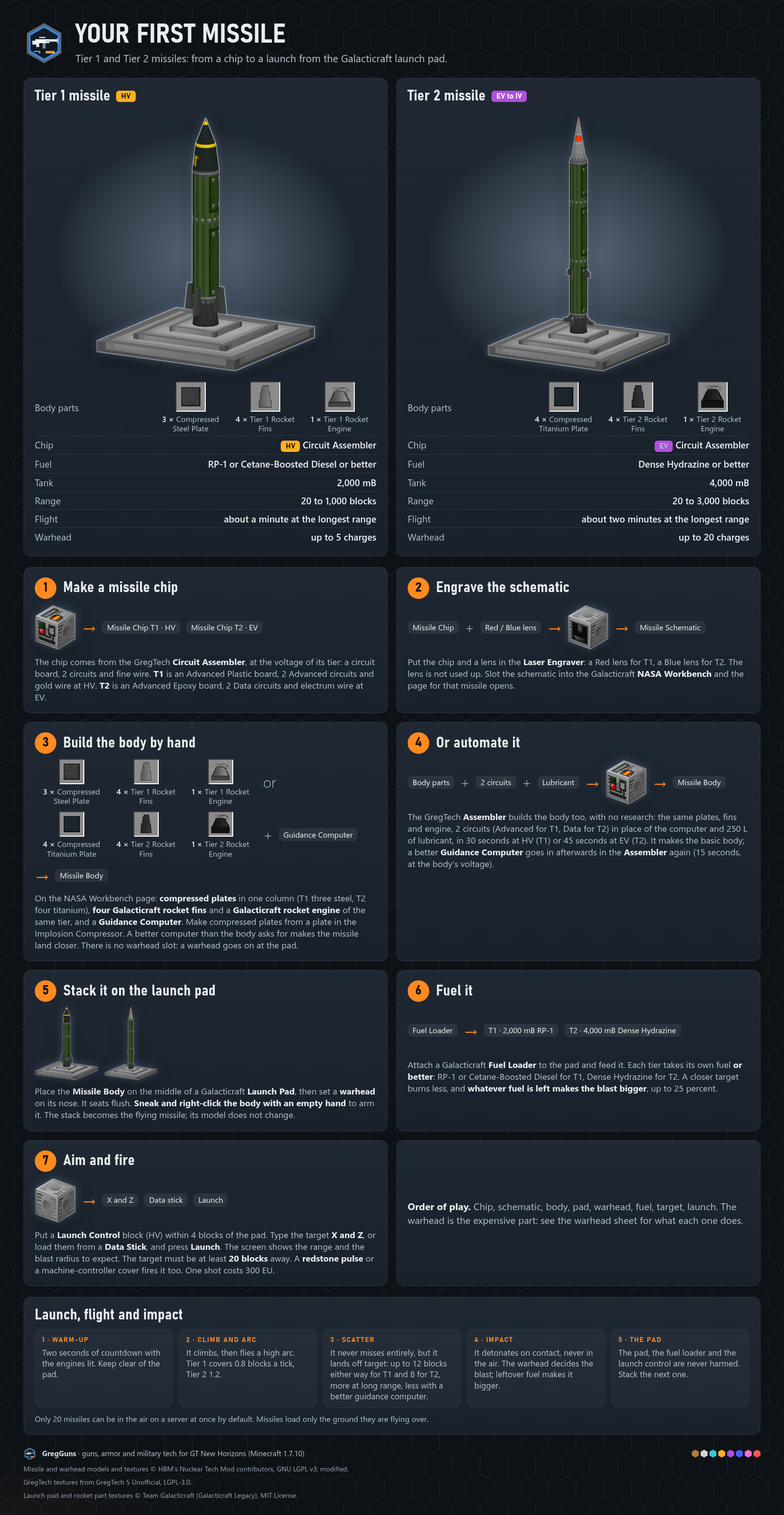
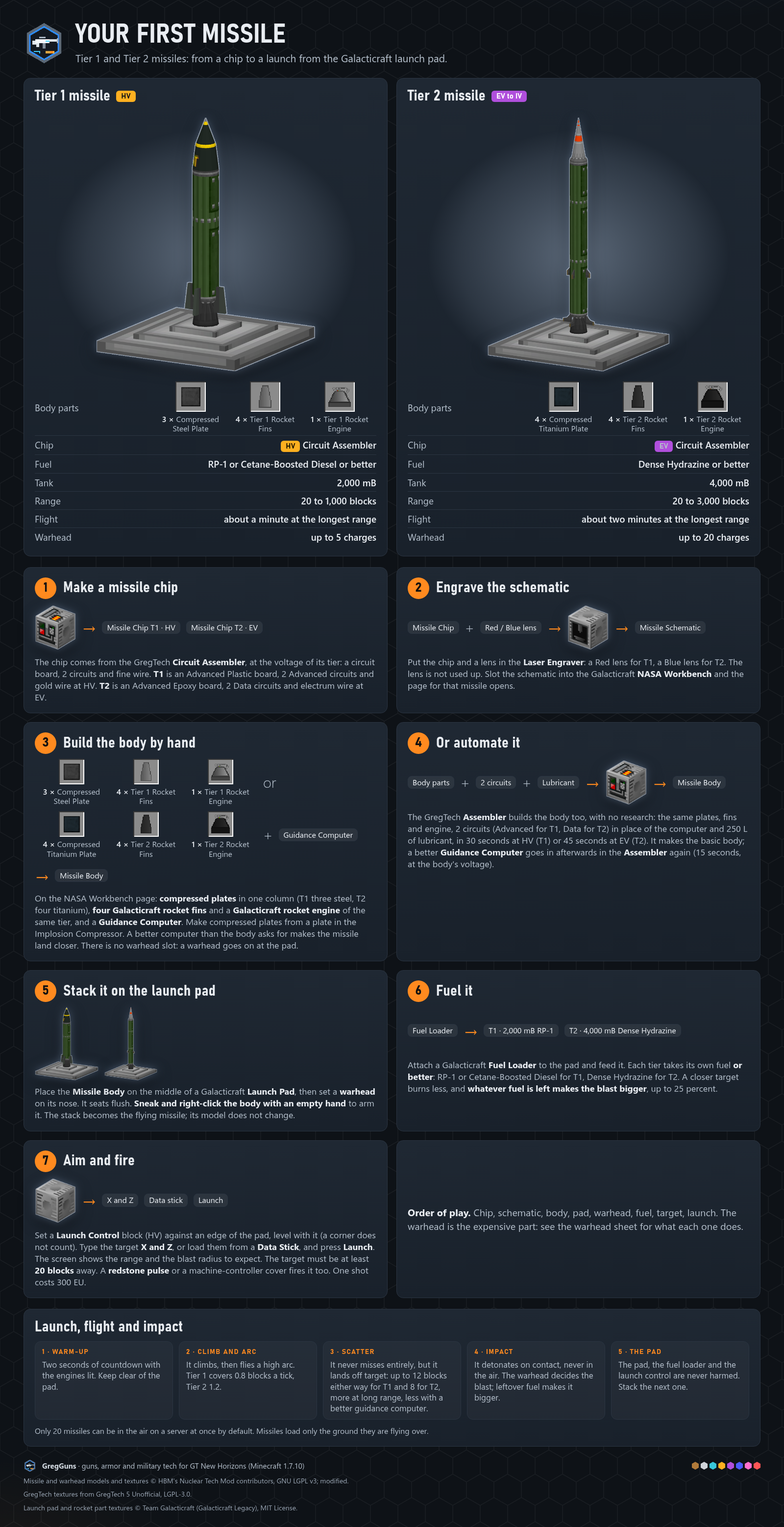
Launch Control pairing: spec, D285, quests, changelog, first-missile guide

diff --git a/tools/asset-gen/infographics/pages_icbm_silo.py b/tools/asset-gen/infographics/pages_icbm_silo.py
@@ -236,7 +236,7 @@ def silo() -> str:
 <div class="card"><h2 style="margin-bottom:10px">Loading and launching</h2><div style="display:flex;flex-direction:column;gap:14px">
 <div class="step"><span class="num">1</span><div class="t"><b>Feed it.</b> Put a missile body and a warhead into the Input Bus, by hand or by conveyor. The silo seats the warhead on the nose and stands the missile on the pad.</div></div>
 <div class="step"><span class="num">2</span><div class="t"><b>Fuel it.</b> Pipe the right fuel into the Input Hatch. A Tier 3 missile takes 8,000 mB of Purple or Green fuel. Power the Energy Hatch.</div></div>
-<div class="step"><span class="num">3</span><div class="t"><b>Link it.</b> Put a Launch Control within 6 blocks sideways and 4 up or down of the silo controller. It finds the silo the way it finds a pad.</div></div>
+<div class="step"><span class="num">3</span><div class="t"><b>Link it.</b> Build a Launch Control into the silo in place of any wall, glass or floor-ring block, one per silo. It fires that silo and no other, and its screen names it.</div></div>
 <div class="step"><span class="num">4</span><div class="t"><b>Launch.</b> Pick the target on the Launch Control and fire. You never touch the missile.</div></div></div></div></div>
 <div class="card" style="margin-top:18px"><h2 style="margin-bottom:6px">Building a Tier 3 body</h2>
 <div class="muted" style="font-size:18px;margin-bottom:12px">A Tier 3 body is built like the smaller ones, by hand on the NASA Workbench or on a LuV Assembly Line. It needs the silo: a pad refuses it. It carries every warhead casing, from Tier 1 up to antimatter and red matter.</div>

diff --git a/tools/asset-gen/infographics/pages_icbm_missile.py b/tools/asset-gen/infographics/pages_icbm_missile.py
@@ -143,7 +143,7 @@ def first_missile() -> str:
                "A closer target burns less, and <b>whatever fuel is left makes the blast bigger</b>, up to 25 percent.")
     s6 = _step(7, "Aim and fire",
                f"{lc}{arrow}<span class='pill'>X and Z</span><span class='pill'>Data stick</span><span class='pill'>Launch</span>",
-               f"Put a <b>Launch Control</b> block (HV) within 4 blocks of the pad. Type the target <b>X and Z</b>, or load them from a <b>Data Stick</b>, and press <b>Launch</b>. The screen shows the range and the blast radius to expect. "
+               f"Set a <b>Launch Control</b> block (HV) against an edge of the pad, level with it (a corner does not count). Type the target <b>X and Z</b>, or load them from a <b>Data Stick</b>, and press <b>Launch</b>. The screen shows the range and the blast radius to expect. "
                f"The target must be at least <b>{MIN_RANGE} blocks</b> away. A <b>redstone pulse</b> or a machine-controller cover fires it too. One shot costs 300 EU.")
     flight = f"""<div class="card" style="margin-top:22px"><h2>Launch, flight and impact</h2>
 <div class="tl"><div><div class="k">1 &middot; Warm-up</div><div class="v">Two seconds of countdown with the engines lit. Keep clear of the pad.</div></div>

diff --git a/docs/gregguns-icbm-spec/DECISIONS.md b/docs/gregguns-icbm-spec/DECISIONS.md
@@ -86,7 +86,7 @@ The owner decided D1–D28 on 2026-10-20 and D29–D42, D47 and D50 on 2026-10-2
 | D72 | Mating and fueling (silo coder) | Body and warhead come from an Input Bus, one of each per cycle of 20 s, drawing the body tier's voltage; the missile appears when the cycle ends, and a pending mating is saved. Fuel is pumped 2,000 mB per 40-tick cycle. A body stacked by hand in the shaft is armed as on a pad, and the silo waits for it. A launch is one entry point per site (`LaunchSite.launch`) |
 | D73 | The silo bonus (owner, 2026-10-26) | Scatter x0.5 (`icbm.siloScatterFactor`, 0.1 to 2) and range x1.25 (`icbm.siloRangeFactor`, 0.5 to 5), for every tier launched from a silo, passed to `EntityMissile.launch` as a site modifier and kept for the flight. The 10% scatter floor still applies; the pad keeps the plain numbers |
 | D74 | T3 missile numbers and parts (silo coder; amends D60) | Fuel 8,000 mB (Purple or Green), range 20 to 8,000, speed 1.6, scatter 6, health 60, 6 blocks tall, entity id 122, warhead T3 or lighter. Build: LuV chip and schematic (yellow lens), Assembly Line at LuV behind a research scan, 4 compressed titanium plates, 4 Heavy Duty Rocket Fins Tier 3, 1 Heavy Duty Rocket Engine Tier 3 (NewHorizonsCoreMod, `dreamcraft:HeavyDutyRocket{Engine,Fins}Tier3`), 2 Master circuits. **No guidance computer above LuV exists yet, so T3 takes Mk III and carries no guidance steps** (`guidanceOf` is clamped at 0); a Mk IV and V arrive with the UV missiles in I5 if wanted. Cost is an estimate until the full-pack review (D63) |
-| D75 | Silo reach and order (silo coder) | The Launch Control finds a formed silo within 6 blocks horizontally and 4 vertically of the silo controller (`SiloSearch`), and tries it before a pad, because the silo floor is itself a pad. The Launch Control's range line shows the linked site's range |
+| D75 | Silo reach and order (silo coder) | The Launch Control finds a formed silo within 6 blocks horizontally and 4 vertically of the silo controller (`SiloSearch`), and tries it before a pad, because the silo floor is itself a pad. The Launch Control's range line shows the linked site's range. Replaced by D285 (the Launch Control is part of its silo; a free one needs a touching pad) |
 | D76-D79 | (not used) | These numbers were never issued; the table runs D75, D80. Do not cite them |
 | D80 | T3 warheads (nuclear coder, I3) | T3 casing: LuV to ZPM, 1x1x2, fill cap 64, tungstensteel casing (8 plates). Three T3 blast types ship in I3: **exothermic** (r28, 8,000, everything burns 5 s), **endothermic** (r28, 8,000, slowness 10 s) and **nuclear** (ZPM, r64 at full fill, annihilation with bosses). Ender, anti-gravitational and EMP (D10's other T3 types) **move to I4/I5**: they need teleport, flying-block and EMP machinery that I3 does not build. One new part, **Fuze Assembly Mk III** (LuV). Recipes are Assembler recipes at LuV (exothermic, endothermic) and ZPM (nuclear); T3 cost band 55 to 150 plate equivalents (about two to three T3 launches, the warhead being the expensive part, D34). T3 recipes reuse programmed circuits 1 to 3: all 24 are taken below T3, and the tungstensteel casing means no T1/T2 recipe can clash (`WarheadRecipeSpecTest` checks T3 circuits among themselves) |
 | D81 | T3 collision box (I3) | The T3 casing's box is 0.9 wide (0.96 with the margin) and fits the nuclear model (0.8). The conventional T3 model reuses the T1 shape at full width (1.0), so it overhangs the box by 0.02 a side. Accepted; a slimmer licensed model can replace it later |
@@ -543,3 +543,4 @@ None right now. New questions are added here as the GregGuns-side sheets raise t
 | D282 | The warhead chain: an inert warhead, a payload, then Plastic Explosive charges (orchestrator, 2026-10-30; amends D54 and D57, settles D23's filling) | Owner bugs from the 0.4.0-alpha playtest: "I don't see a way to craft an empty warhead and fill it with charges, it just comes out of the assembler recipe full", "players should have to craft a base inert warhead and then customize it further by filling it with charges and / or payload choices", and "the warhead has both itnt and plastic explosive in the recipe that is redundant ... we should just be using more plastic explosive charges". This returns to the owner's Q11 answer (2026-10-20), which chose ICBM 2's quantity knob ("Warhead casing T3: cap 64 units, fill with 1..64x ... charge"; "record the NBT into the one item and recover it at explosion time") over fixed warhead items. D54's "NBT cannot flow through a GT recipe" turned that into full-only recipes. **(1) Inert warhead:** new items `gregguns:inert_warhead_t1` to `_t5`, one per casing, made in the Assembler at the casing tier (HV, EV, LuV, UV, UHV; circuit 2) from the casing plates and the casing's Fuze Assembly. It is a plain item, not a block, so it is inert by construction: it cannot be placed, cannot sit on a missile or stand on a pad, and nothing sets it off. The silo's Input Bus ignores it and says why (`gregguns_silo_inert_warhead`). **(2) Payload:** an Assembler recipe per blast at its tier, on the blast's circuit, fits a payload to a bare inert warhead (NBT `payload`). It is not NBT-sensitive, because the Bio Lab dish carries NBT, so refitting replaces a payload. A payload holds only the effect materials, with **no explosive**. Condensed has no payload. **(3) Charges:** **Plastic Explosive is the only charge, one charge per unit of fill.** D23's caps are kept (5, 20, 64, 128, 128). Charges are loaded in a crafting grid (`WarheadChargeRecipe`): one inert or live warhead plus 1 to 8 Plastic Explosive. Top-ups work; a bare T1 casing becomes Condensed; a bare T2 to T5 casing, or a load past the cap, makes no recipe. Or they are loaded in the Assembler: an NBT-sensitive fill recipe takes a full casing of charges. Both make the existing live `warhead_t1` to `warhead_t5`, so worlds and quests keep working, and every launch and detonation path is unchanged. **(4) No recipe takes both Industrial TNT and Plastic Explosive.** The payloads carry neither. The launcher warheads Demolition and Cluster take 4 Plastic Explosive and EMP takes 2, instead of Industrial TNT plus Plastic Explosive. The fill-1 condensed starter recipe is gone (the grid makes it). **(5) Costs (D34)** count the inert warhead, the payload and a full casing of charges. The bands are T1 14 to 26, T2 38 to 52, T3 90 to 180, T4 and T5 100 to 400. The inert warhead draws the live model dimmed, with a generated fallback icon. Details: [warheads-and-fill](02-explosives/warheads-and-fill.md#the-warhead-chain-d282) |
 | D283 | De-arming: the warhead chain runs backwards (orchestrator, 2026-10-30; extends D282 and D44, adds a use to the D120 defuser) | Owner, in game during the 0.4.0-alpha playtest: "make sure you are planning for a de-arming sequence for filled warheads so that players can repurpose or get their materials back. GTNH default is recycler recipes but we can be more modular than that". Each build step has its inverse. **(1) Unload charges:** a custom shapeless crafting recipe (`WarheadUnloadRecipe`): one live warhead and the **Defuse Kit**, nothing else, gives the same warhead with `min(8, fill)` fewer charges, mirroring the 1 to 8 grid load; the last charge out gives the inert warhead with the payload it was built with (bare for Condensed). The Plastic Explosive comes back **whole**, through FML's `ItemCraftedEvent` on the server (the akimbo precedent, GUN-26: FML fires it before the grid gives up its ingredients), into the inventory or at the player's feet. The kit becomes a container item that stays in the grid and spends one of its 32 uses per craft (creative too); it is no other recipe's ingredient. For bulk, GT's **Cutting Machine** empties a **full** warhead (NBT-exact) into its inert warhead and the full casing of charges (128 as two stacks). **(2) Remove the payload:** the Cutting Machine, NBT-exact, gives the bare inert warhead and every item of the payload recipe at its count; the payload's fluid (gas, fuel, biomass) is spent, so canisters come back as they went in. **(3) Scrap the casing:** the Cutting Machine gives a bare inert warhead's plates and Fuze Assembly back, lossless. GT recycling data for the live and inert warheads now holds the fuze's metal beside the casing plates, so the Macerator and Arc Furnace (the GT default) give the metal back and lose charges and payload. **Machine choice:** GT 5.09.54.205 has no Disassembler, the Assembler has one output, and the cutter's four item outputs fit the largest step; every de-arm runs at the build step's voltage (`machineVoltageIndex`, casing tier for scrap), so it never needs less tech than the build. **No dupe:** the grid needs both `explosive` and `fill` in the tag and an explosive of the casing's tier (a tag-less stack, which reads as full, gives nothing), clamps the fill as the blast does, and the cutter inputs are NBT-sensitive. A round trip through any grid loads returns exactly what went in (`WarheadDearmingTest`, `icbm.warhead.dearm.round_trip`). The boot self-check skips cutter recipes that take a warhead: the D1 tier map judges what a recipe makes, and salvage sits below the warhead's tier by design. Quest `gg.icbm.dearm` (after `gg.icbm.warhead`) asks for an inert T1 warhead *crafted* in the grid, which only a de-arm makes; crafting tasks now ignore NBT unless `matchNBT` is set. Details: [warheads-and-fill](02-explosives/warheads-and-fill.md#de-arming-d283) |
 | D284 | Abandoned complexes: holdout guards, picked clean (amends D36; owner, 2026-10-30) | Owner, after exploring an abandoned complex: "give the abandoned ones like one or two spawners and make the GTNH machines and loot spawn way less frequently in abandoned ones. I have already found several free machines." **Spawners:** an abandoned complex places exactly one or two (a hash of its seed) `SILO_GUARD` vanilla spawners (Army Soldier, Commando; never elite) on hashed `post` marks, which are the guard post rooms and the corridor junctions, never in a collapsed room. All other spawner marks stay silent at this level. **Loot:** each chest and wall frame mark is kept with the level's `chestKeepChance` (abandoned 0.30, partly and operational 1.0). **Machines:** a new `absentMachineChance` (abandoned 0.20, others 0) leaves the slot empty before the husk roll, and abandoned `deadMachineChance` rises from 0.35 to 0.90, so 8% of abandoned machine slots hold a working machine (0.8 x 0.1), against 55% partly and 100% operational. Chest richness stays 0 (the poorest). Partly abandoned and operational are unchanged. Read back by `icbm.complex.levels` and `ComplexContentsTest` |
+| D285 | The Launch Control is a part of its silo; a free one pairs only with a pad it touches (owner, 2026-10-30; replaces D75's search) | Owner bug from the 0.4.0-alpha playtest: "launch control reports no missile found when it is sitting close to two silos (in between two silos). I am guessing that LCs have an election process and marry to a single silo? If so can you just make it one of the blocks in the multi?" **Cause:** `LaunchSites.find` re-picked a site every snapshot: the nearest formed silo controller within 6 / 4 blocks (D75), whatever stood in its shaft, ties going to the west then north offset, and only then the nearest pad within 4 / 2; between two silos it took the nearer (or western) one even when it was empty. **Silos:** the Launch Control is a hatch-like element of the Missile Silo (`SiloLaunchControl`), accepted in every hatch position (walls, glass rings, floor ring), optional, at most one (a second fails its position). The structure check binds it (`MTELaunchControl.bindSilo`, saved), so the silo knows its Launch Control and the Launch Control its silo: it fires that silo only, shows `silo_unformed` while the silo is not formed, and is released when the silo forms without it. A free block nudges nearby formed silos without a Launch Control to recheck once after it loads, since GT rechecks only on machine-block updates. **Pads (owner: "make it have to have a pad next to it to pair to a bare pad, that's how the galacticraft launch controller is"):** a free Launch Control pairs only with a Galacticraft rocket pad whose edge it touches at the pad's level, Galacticraft's `TileEntityLandingPad.getConnectedTiles` rule (`PadAdjacency`: the 12 edge cells, no corners, no other level); no radius search. A formed silo's floor is never a bare pad. Several touching pads: a launch under way, then ready, armed, anything, empty; ties in a fixed side order, north, east, south, west (`SiteChoice`). `no_pad` reads "No pad adjacent". **Screen:** a site line names the binding: the silo's sign name (the first line of a wall sign on its face one above the controller, where the complex hangs `Silo N`), else `Silo at x, z`, `Pad at x, z`, or none; the screen's rows go from 9 to 8 px to fit it. **Worldgen and dev builds:** every generated silo carries its own Launch Control (cell `SILO_LAUNCH_CONTROL`) in the front face's window, top row, outer column on a viewer's right (`SiloShape.LAUNCH_CONTROL_COLUMN` 1, `LAUNCH_CONTROL_RISE` 1); it is never the missing part. `DevStructureBuilder.buildSilo` places one in the same cell. The Launch Control room's machine stays as furniture (no pad, no silo). Tested by `LaunchControlPairingTest`, `ComplexRasterTest`, `icbm.control.pad_and_gate`, `icbm.control.pad_choice`, `icbm.silo.own_control`, `icbm.silo.unformed_pad` |

diff --git a/docs/gregguns-icbm-spec/04-launch-control/launch-control-block.md b/docs/gregguns-icbm-spec/04-launch-control/launch-control-block.md
@@ -10,7 +10,7 @@
 
 | ICBM behavior | GregGuns behavior | Why |
 |---|---|---|
-| Launcher screen block linked to launchers by a cable network | One block within reach of the pad; no network at T1-T2 | A Galacticraft pad is one 3x3 area; the silo (I3) brings its own feed |
+| Launcher screen block linked to launchers by a cable network | One block set against the pad's edge, or built into the silo's structure; no network | A Galacticraft pad is one 3x3 area and Galacticraft's own controller attaches by touch; the silo knows its own Launch Control (D285) |
 | Energy buffer fed by a battery slot (dead in ICBM, ICBM-04-15) | GT EU buffer; 300 EU per shot, paid only when the pad accepted the launch | ICBM-04-07 |
 | Default target (0, 0, 0) is a legal target (ICBM-04-06) | A target is unset until both coordinates are given | ICBM-04-06 |
 | Range is two per-axis squares with a hard-coded minimum (ICBM-04-05) | A circle on the horizontal distance from the pad's center; the minimum is the body tier's (20) | ICBM-04-05 |
@@ -26,9 +26,15 @@
 
 ## Finding the pad or the silo
 
-From I3 the block fires a `LaunchSite`: a formed Missile Silo within 6 blocks horizontally and 4 vertically of the silo's controller (tried first, because its shaft floor is a pad too), else the Galacticraft pad as before. The range line and the expected radius are those of the linked site (a silo adds its bonus, [missile-silo](../03-missiles/missile-silo.md)), and a silo whose Energy Hatch is below the missile's tier shows `silo_tier` and locks the button.
+The block fires a `LaunchSite` (D285). There is no search for silos and no election between sites.
 
-The block scans a box of plus or minus 4 horizontally and plus or minus 2 vertically for the **center block of a Galacticraft rocket pad** (`GCBlocks.landingPadFull` with metadata 0) and takes the nearest (`PadSearch`, unit tested). A buggy pad is not a rocket pad. `LaunchPads` is the only class that names a Galacticraft block, and it is reached only after the module gate. The pad's center is passed to the pad API.
+- **Part of a silo.** A Launch Control built into a Missile Silo's structure, in any hatch position (a wall, glass or floor-ring block; [missile-silo](../03-missiles/missile-silo.md)), is that silo's. The silo's structure check finds it (`SiloLaunchControl`, a hatch element) and binds it (`MTELaunchControl.bindSilo`, the controller's coordinates, saved): the silo knows its Launch Control and the Launch Control knows its silo. It fires that silo only. While the silo is not formed it shows `silo_unformed` and fires nothing; a silo that forms without it (or a controller that is gone) releases it, and it stands free. A silo takes at most one Launch Control: a second one fails its position, and the silo does not form. Once, 20 ticks after it loads or is placed, a free block asks every formed silo whose structure could hold it, and that has no Launch Control, to check its structure again, because GT only rechecks a structure when a machine block beside its parts changes.
+- **Free-standing, beside a pad.** A Launch Control that is part of no silo fires a Galacticraft rocket pad it **touches**: it stands against one of the 3x3 pad's four edges, level with the pad, the way Galacticraft's own launch controller attaches (`TileEntityLandingPad.getConnectedTiles`). That is the twelve cells two blocks from the pad's center along one axis and at most one along the other (`PadAdjacency`, unit tested). A corner contact, a gap or a different level does not attach. The pad is found by its **center block** (`GCBlocks.landingPadFull`, metadata 0); a buggy pad is not a rocket pad. A formed silo's shaft floor is never a bare pad. With no touching pad the status is `no_pad` ("No pad adjacent").
+- **Several touching pads.** The block takes the one with a launch under way (so Abort reaches it), then one with a ready missile (armed, full tank), then an armed one, then one with anything on it, then an empty one; among equals the first in the fixed side order (north, east, south, west, each from the low coordinate up) (`SiteChoice`, unit tested). The choice never flips between two equal pads.
+
+The range line and the expected radius are those of the bound site (a silo adds its bonus), and a silo whose Energy Hatch is below the missile's tier shows `silo_tier` and locks the button. `LaunchPads` is the only class that names a Galacticraft block, and it is reached only after the module gate.
+
+**Generated silos** carry their Launch Control in the front face, in the window's top row (one above the controller), in the outer column on the right of a player facing the controller (`SiloShape.LAUNCH_CONTROL_COLUMN`, `LAUNCH_CONTROL_RISE`; worldgen cell `SILO_LAUNCH_CONTROL`). The dev builder (`DevStructureBuilder.buildSilo`) puts it in the same place. The Launch Control room of the complex keeps its own Launch Control as furniture: it touches no pad and is part of no silo, so it shows "No pad adjacent".
 
 ## The pad API (coder 1's `PadMissiles`)
 
@@ -43,7 +49,7 @@ The block scans a box of plus or minus 4 horizontally and plus or minus 2 vertic
 
 ## The GUI (ModularUI2)
 
-A dark status screen (state, target, distance and range, expected blast radius, EU), the X and Z fields, **Use my position**, the data stick slot with **Load target** and **Save target**, **Launch** and **Abort** (D88). Every control is labeled with a tooltip. **Launch** is gray until the pre-check is READY, and its tooltip then names the first reason (no target, no pad, power, cooling down, no missile, not armed, not fueled, too close, out of range). Load and Save are gray without a stick and say so. **Abort** sits beside Launch: it is live while a countdown runs (the screen reads "Countdown: N s"), gray when none runs, and gray with "Ignition: no abort" once the engines have lit. Status numbers reach the client as read-only sync values; no client code reads the world.
+A dark status screen (state, the bound site, target, distance and range, expected blast radius, EU), the X and Z fields, **Use my position**, the data stick slot with **Load target** and **Save target**, **Launch** and **Abort** (D88). Every control is labeled with a tooltip. **Launch** is gray until the pre-check is READY, and its tooltip then names the first reason (no target, no pad, power, cooling down, no missile, not armed, not fueled, too close, out of range). Load and Save are gray without a stick and say so. **Abort** sits beside Launch: it is live while a countdown runs (the screen reads "Countdown: N s"), gray when none runs, and gray with "Ignition: no abort" once the engines have lit. The site line names what the block is bound to: `Silo 2 at 120, -30` (the silo's name is the first written line of a wall sign on its face one block above the controller, where the complex hangs `Silo N`), `Silo at 120, -30` without a sign, `Pad at 120, -30`, or `Bound to no silo or pad`; the coordinates are the launch point (the shaft's or the pad's center). Six 8 px rows fill the screen. Status numbers reach the client as read-only sync values; no client code reads the world.
 
 ## Triggers
 
@@ -65,10 +71,11 @@ A shot starts a 40-tick cooldown on the block.
 - **GGS-I2-13** A held signal fires once. A far or dead player's button press does nothing.
 - **GGS-I2-14** Every status has a lang key (ICBM-04-16, 04-17).
 - **GGS-I2-15** The block never touches the pad, the fuel loader or anything attached; only the pad API acts on the pad.
+- **GGS-ICBM-04-25** A Launch Control in a silo's structure fires that silo only, and names it; a free one fires only a pad it touches, level with it, and prefers a site with a ready missile over an empty one (D285).
 
 ## Tests
 
-`LaunchControlTest` (target, parse, gate order, trigger edge, pad search, stick codec, number format) and scenarios `icbm.control.registered`, `icbm.control.pad_and_gate`, `icbm.control.data_stick`, `icbm.control.redstone`. The full launch from the block is in the missile milestone's scenarios.
+`LaunchControlTest` (target, parse, gate order, trigger edge, stick codec, number format), `LaunchControlPairingTest` (pad adjacency, the site choice and its tie-break, the site line) and scenarios `icbm.control.registered`, `icbm.control.pad_and_gate` (only a touching pad, level with the block), `icbm.control.pad_choice` (between two pads the loaded one wins; ties keep the side order), `icbm.control.data_stick`, `icbm.control.redstone`, `icbm.silo.own_control` (two silos, each fired by its own Launch Control; a free one between them belongs to neither) and `icbm.silo.unformed_pad`. The full launch from the block is in the missile milestone's scenarios.
 
 ## Open questions
 

diff --git a/docs/gregguns-icbm-spec/03-missiles/missile-silo.md b/docs/gregguns-icbm-spec/03-missiles/missile-silo.md
@@ -26,6 +26,7 @@ One fixed piece, 5 wide, 5 deep and 12 layers tall, with the four corner columns
 - **Walls and floor ring (D116):** GT's concrete block `gregtech:gt.blockconcretes` (`GregTechAPI.sBlockConcretes`), metas 0 to 7 Dark and 8 to 15 Light, mixed freely. Accepted: stone (0, 8), bricks (3, 11), cracked bricks (4, 12), mossy bricks (5, 13), chiseled (6, 14), smooth (7, 15). Cobblestone and mossy cobblestone (1, 2, 9, 10) are refused: they are the rubble form the plain stone drops as. The hologram and auto-build place Light Concrete (meta 8). GT gives concrete no casing texture index, so a hatch in the silo still wears the Gantry Casing texture.
 - **Hatches (D117, amends D71):** the Input Bus, Input Hatch, Energy Hatch and Maintenance Hatch may replace any wall block (layers 5 to 11), any glass pane (layers 2 to 4) or any outer-ring cell of the floor. Never the rim (layer 12, Gantry Beam), and never the inner 3x3 pad floor, which a hatch would break. At least 84 of the 96 concrete positions must stay concrete.
 - **Controller:** the middle of the front wall, in the middle glass ring (layer 3).
+- **Launch Control (D285):** optional, at most one, in any hatch position (a wall, glass or floor-ring cell; `SiloLaunchControl`, a hatch element in every hatch adder). The structure check binds it, so the silo fires through its own Launch Control and no other; a second one fails its position. It keeps its own texture. Generated and dev-built silos put it in the front face's window, top row (layer 4), in the outer column on a viewer's right (`SiloShape.LAUNCH_CONTROL_COLUMN`, `LAUNCH_CONTROL_RISE`). The controller's tooltip lists it.
 - **Pad:** the nine blocks accept either the unformed Galacticraft pad blocks (`tile.landingPad`) or the formed pad (`tile.landingPadFull` at the center and `tile.dummyblock` meta 2 on the other eight), found by registry name through `GalacticraftPads` so no Galacticraft class loads. Without Galacticraft the module is off and the silo inert. The launch never removes or damages the pad (D32): a missile does not extend `EntityAutoRocket`.
 - **Counts:** 96 concrete positions (84 needed, the rest may be hatches), 35 glass panes plus the controller, 12 beams, 9 pad blocks.
 - **The shaft:** 3x3, open to the sky, left as "anything" so a body stacked by hand does not unform the silo. The missile climbs straight out; keep the opening above the rim free of blocks.
@@ -65,7 +66,7 @@ A missile launched from a silo gets scatter x0.5 (`icbm.siloScatterFactor`, on t
 
 ## The launch site API
 
-`com.gregguns.icbm.missile.LaunchSite` (`centerX/Z`, `status`, `maxRange`, `expectedRadius`, `hold`, `launch`). `PadMissiles.site(world, x, y, z)` wraps the unchanged static pad API; `MTEMissileSilo.site()` is the silo. The Launch Control reaches both through `LaunchSites.find`, the silo first (its floor is a pad too, but a silo launch must obey the silo), within 6 blocks horizontally and 4 vertically of the silo controller (`SiloSearch`).
+`com.gregguns.icbm.missile.LaunchSite` (`centerX/Z`, `status`, `maxRange`, `expectedRadius`, `hold`, `launch`). `PadMissiles.site(world, x, y, z)` wraps the unchanged static pad API; `MTEMissileSilo.site()` is the silo. The Launch Control reaches both through `LaunchSites.find`: its own silo when the silo's structure holds it, else a Galacticraft pad it touches (D285, [launch-control-block](../04-launch-control/launch-control-block.md)). A formed silo's floor is never fired as a bare pad. `MTEMissileSilo.signName()` reads the first written line of a wall sign on the face one block above the controller, for the Launch Control's site line.
 
 ## T3 missiles
 
@@ -91,7 +92,7 @@ Cost (estimates, D34): fins 150 and engine 700 plate equivalents each, about 1,3
 
 ## Tests
 
-`SiloDoorsTest`, `SiloShapeTest`, `SiloRulesTest`, `SiloSearchTest`, `MissileTierTest`, `ScatterTest`; scenarios above.
+`SiloDoorsTest`, `SiloShapeTest`, `SiloRulesTest`, `LaunchControlPairingTest`, `MissileTierTest`, `ScatterTest`; scenarios above and `icbm.silo.own_control`.
 
 ## Open questions
 

diff --git a/docs/gregguns-icbm-spec/08-worldgen/silo-layout.md b/docs/gregguns-icbm-spec/08-worldgen/silo-layout.md
@@ -149,7 +149,8 @@ The plan is pure geometry and deterministic. It never changes by activity level.
 - **Silo:** the `SiloShape` piece cell by cell, turned to face its gallery:
   - concrete `C`/`F`, clear glass `G`, Gantry Beam `B`, Galacticraft pad `P`, with the 3 x 3 bore open;
   - the controller and hatches (input bus and maintenance beside it, energy and input HV below) are real GT machines facing the gallery;
-  - exactly one part is missing: the controller (concrete in its place) or the Energy Hatch.
+  - exactly one part is missing: the controller (concrete in its place) or the Energy Hatch;
+  - its own Launch Control is a real GT machine in the window's top row, outer column on a viewer's right (cell `SILO_LAUNCH_CONTROL`, D285), facing the gallery; it is never the missing part, so the silo fires through it once the missing part is in.
 - **Shaft:** above the silo, a 5 x 5 concrete ring around the bore up to the ground height read in the shaft's window, with the open, half open or closed mouth variants. Natural cover over each mouth cell is cleared up to 32 blocks over the ground, so a mouth never sits under a canopy: plants, vines, snow layers, cactus, logs and leaves (`isWood` or `isLeaves`) and ice. Ice goes on being cleared above 32 while it lasts, so an ice spike is cut whole. Any other block stays (a chest, a fence, another mod's build), and so does every block with a tile entity (D239, D250).
 - **Owner:** every generated GT machine (silo controllers and hatches, radar controllers, room machines) carries the owner "[Silo Complex]" with a fixed UUID, so GT's power-fail tracker has an owner when one stops or is broken (D239). The first real player (not a fake player) to right-click a generated Missile Silo, Launch Control or radar takes it over, so its power-fail notices, wireless energy and launches are that player's. GT's own machines in the rooms (generators, buffers, pumps) keep the complex as owner (D250).
 - **Escape:** a 1 x 1 ladder at the dead end of a minor hallway (else of a major hall, else the hub's corner), clinging to the end wall (`ComplexPlan.escapeMeta`). It runs up through its section's ceiling (`escapeTop`) to a closed top-half trapdoor flush with the ground, with the natural cover over the trapdoor cleared as over a mouth. A lake over the column gets no trapdoor. The cell behind it is stone up to just under the surface block.

diff --git a/.changelogs/unreleased.md b/.changelogs/unreleased.md
@@ -22,6 +22,13 @@ Notes for the next release. Fold these into that release's changelog when it is 
 - Five switches are on by default: `npcs.helicopter`, `npcs.alienBug`, `npcs.cyberdemon`, `worldgen.enabledAlienBugNest` and `utility.bioBlobSparesPlayers`. Camps can send the Attack Helicopter and a Camp Flag break calls one in, Alien Bugs and the Cyberdemon (Nether) may spawn, Alien Bug Nests generate in sandy biomes, and Bio Blob poison spares players (other creatures are still poisoned). Set any of them to `false` to turn it off.
 - `questbook.install` is on by default and shows in the in-game config GUI: a server with BetterQuesting gets the GregGuns quest line on start. Set it to `false` to skip the install. The Cyberdemon and Alien Bug quests are visible from the start.
 
+## Changed: the Launch Control belongs to its silo
+
+- A Launch Control between two silos no longer reports "No missile" because it picked the empty one. A Missile Silo now takes its Launch Control as part of its structure: build it in place of any wall, glass or floor-ring block (one per silo). That Launch Control fires its own silo and no other, and says so when the silo isn't formed. Silos built with a Launch Control merely nearby need it moved into the structure.
+- A Launch Control that isn't part of a silo pairs with a Galacticraft pad only when it touches one of the pad's edges, level with it, the way Galacticraft's own launch controller does. Otherwise it reads "No pad adjacent". Next to two pads it picks the one with a ready missile, and always the same one when both are ready.
+- The Launch Control screen names what it is bound to: the silo's sign ("Silo 2") or the silo or pad and its coordinates.
+- Every silo in a silo complex comes with its own Launch Control, in the top row of its window.
+
 ## Changed: abandoned silo complexes
 
 - Abandoned complexes now keep one or two guard spawners (Army Soldiers and Commandos) at a hall branch or a guard post room, so a ruin is no longer empty of danger.
